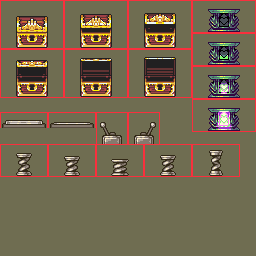
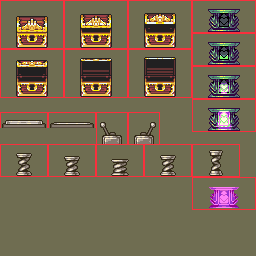
Dramatically improved the visual fx on the teleport pedestal.

Changed region(s): [[0.75, 0.6875, 1.0, 0.8438]]

diff --git a/src/particle_system.cpp b/src/particle_system.cpp
@@ -413,6 +413,7 @@ struct point_particle_info
 	    velocity_y(wml::get_int(node, "velocity_y")),
 	    velocity_x_rand(wml::get_int(node, "velocity_x_rand")),
 	    velocity_y_rand(wml::get_int(node, "velocity_y_rand")),
+		dot_size(wml::get_int(node, "dot_size", 1)),
 	    time_to_live(wml::get_int(node, "time_to_live")),
 	    time_to_live_max(wml::get_int(node, "time_to_live_rand") + time_to_live) {
 		std::vector<std::string> colors_str;
@@ -453,6 +454,7 @@ struct point_particle_info
 	unsigned char rgba[4];
 	unsigned char rgba_rand[4];
 	char rgba_delta[4];
+	int dot_size;
 
 	std::vector<unsigned int> colors;
 	int ttl_divisor;
@@ -560,7 +562,7 @@ public:
 		glDisable(GL_TEXTURE_2D);
 		glDisableClientState(GL_TEXTURE_COORD_ARRAY);
 		glEnableClientState(GL_COLOR_ARRAY);
-		glPointSize(4);
+		glPointSize(info_.dot_size);
 
 		glVertexPointer(2, GL_SHORT, 0, &vertex[0]);
 		glColorPointer(4, GL_UNSIGNED_BYTE, 0, &colors[0]);
